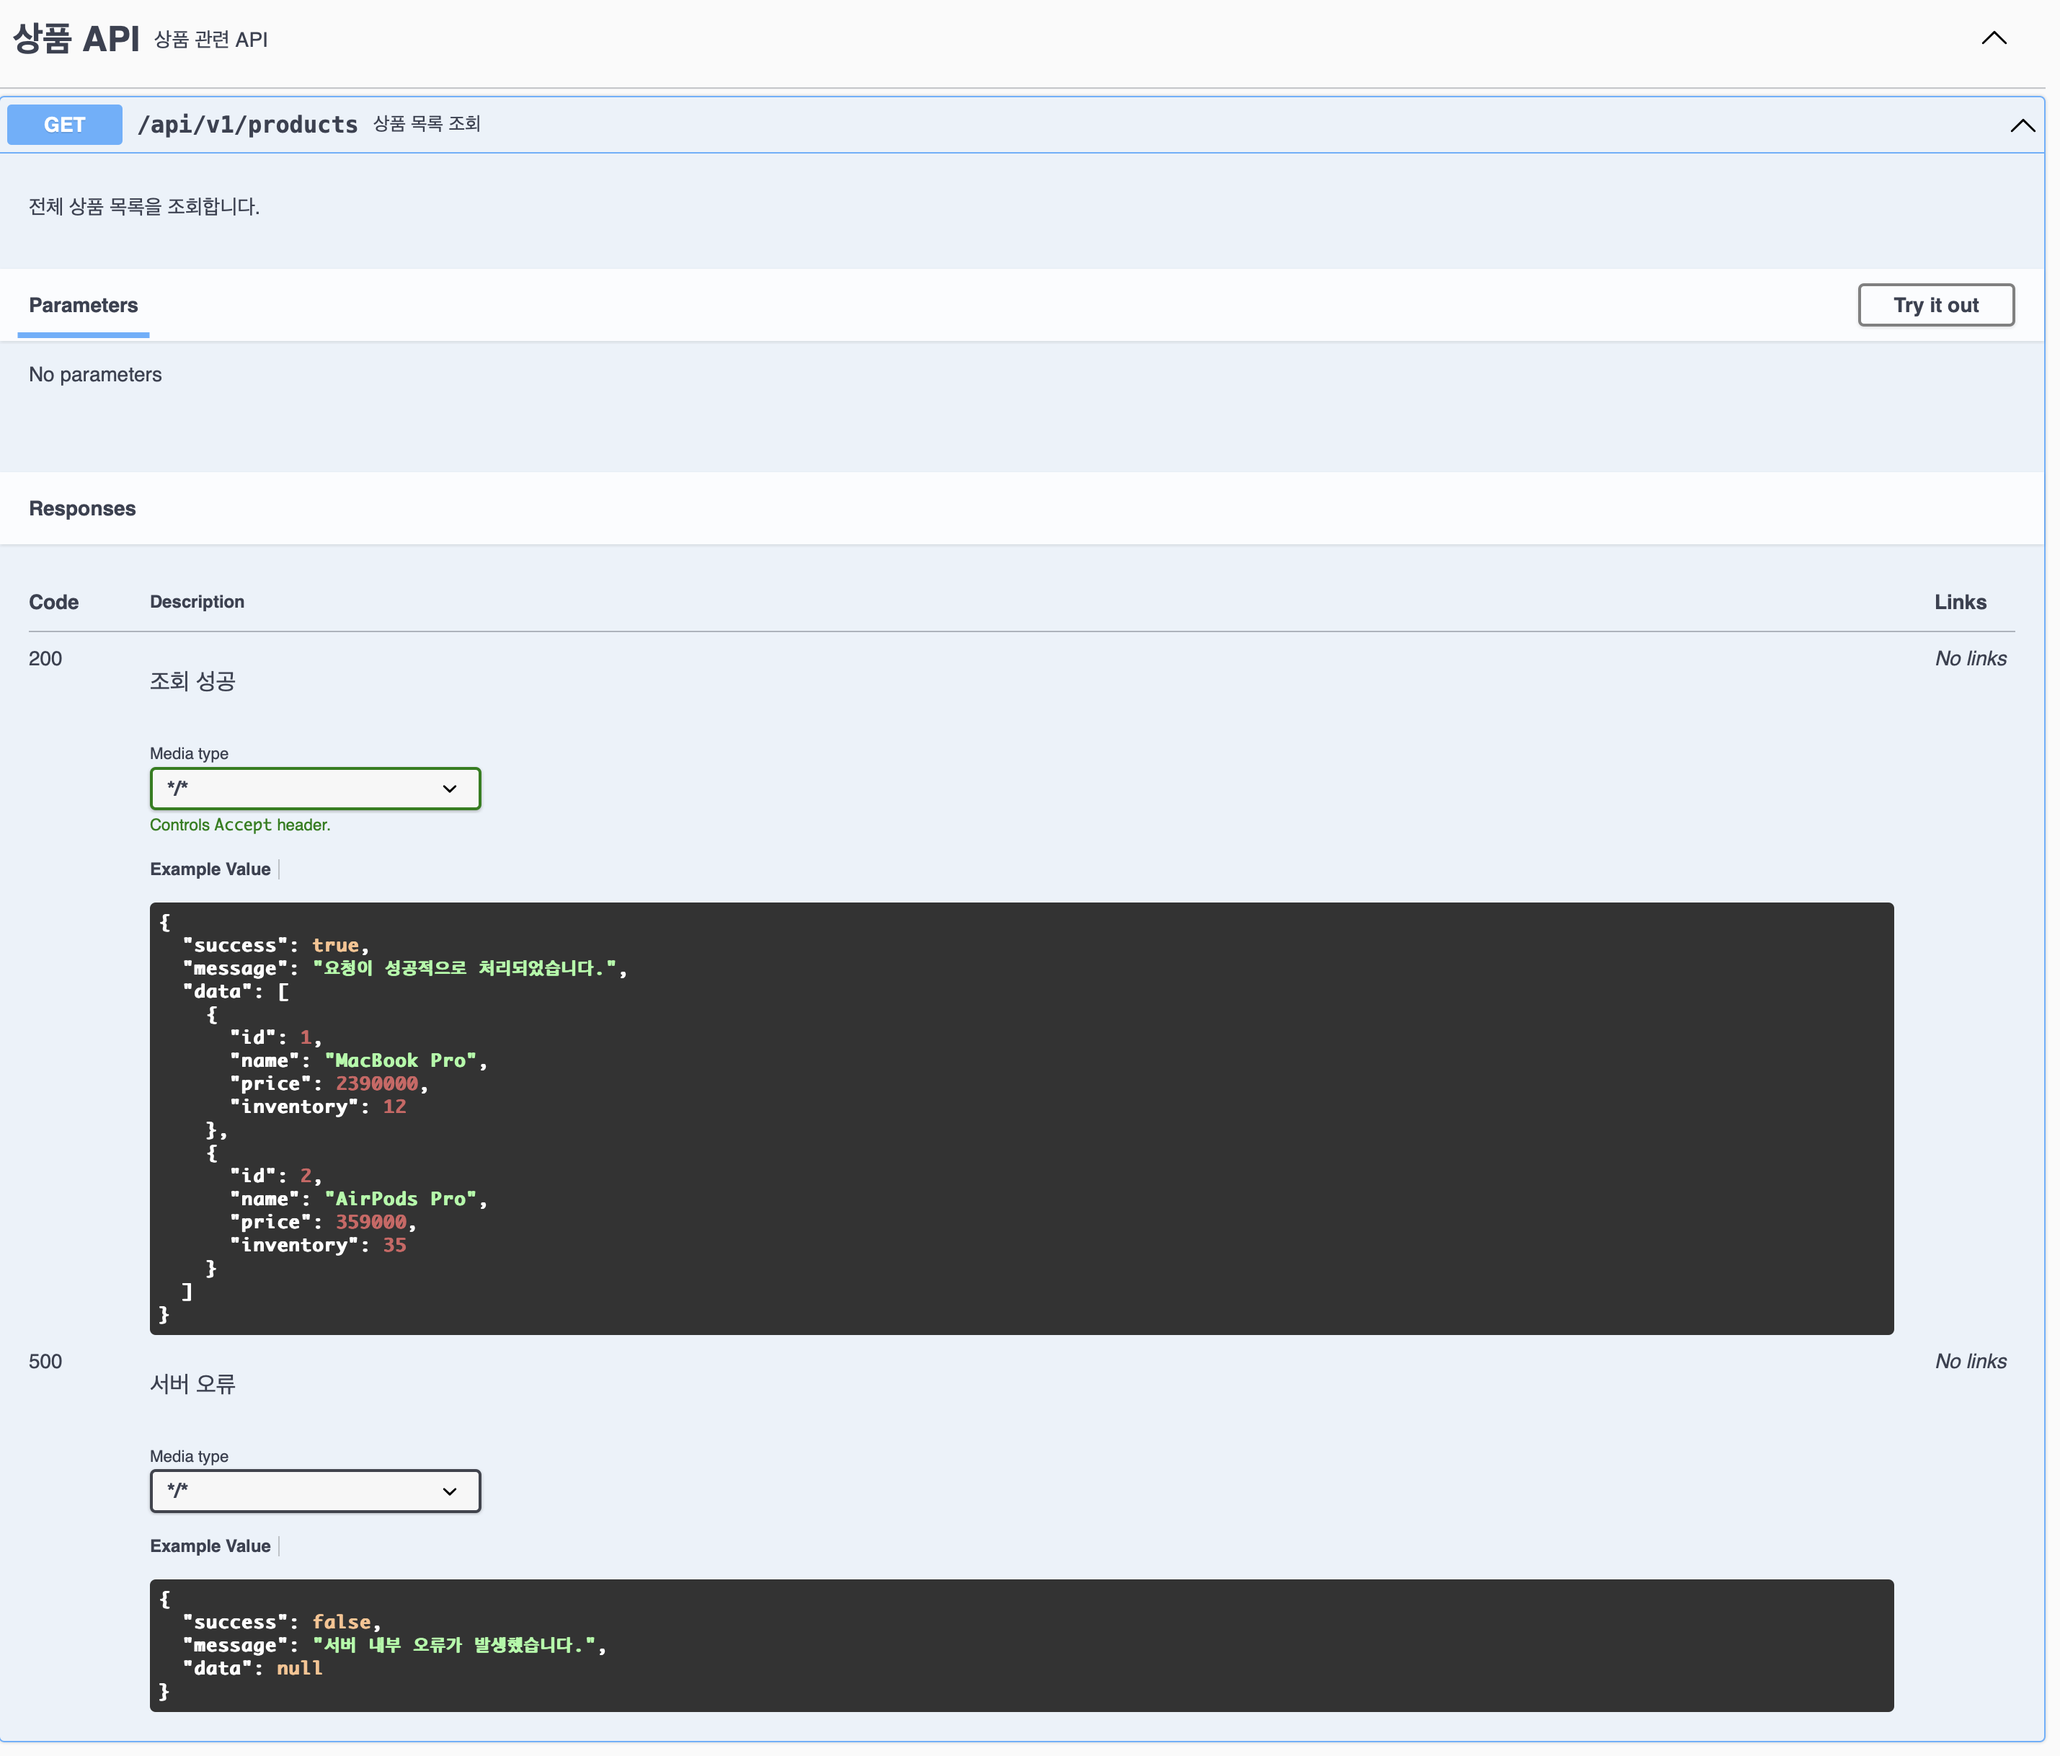
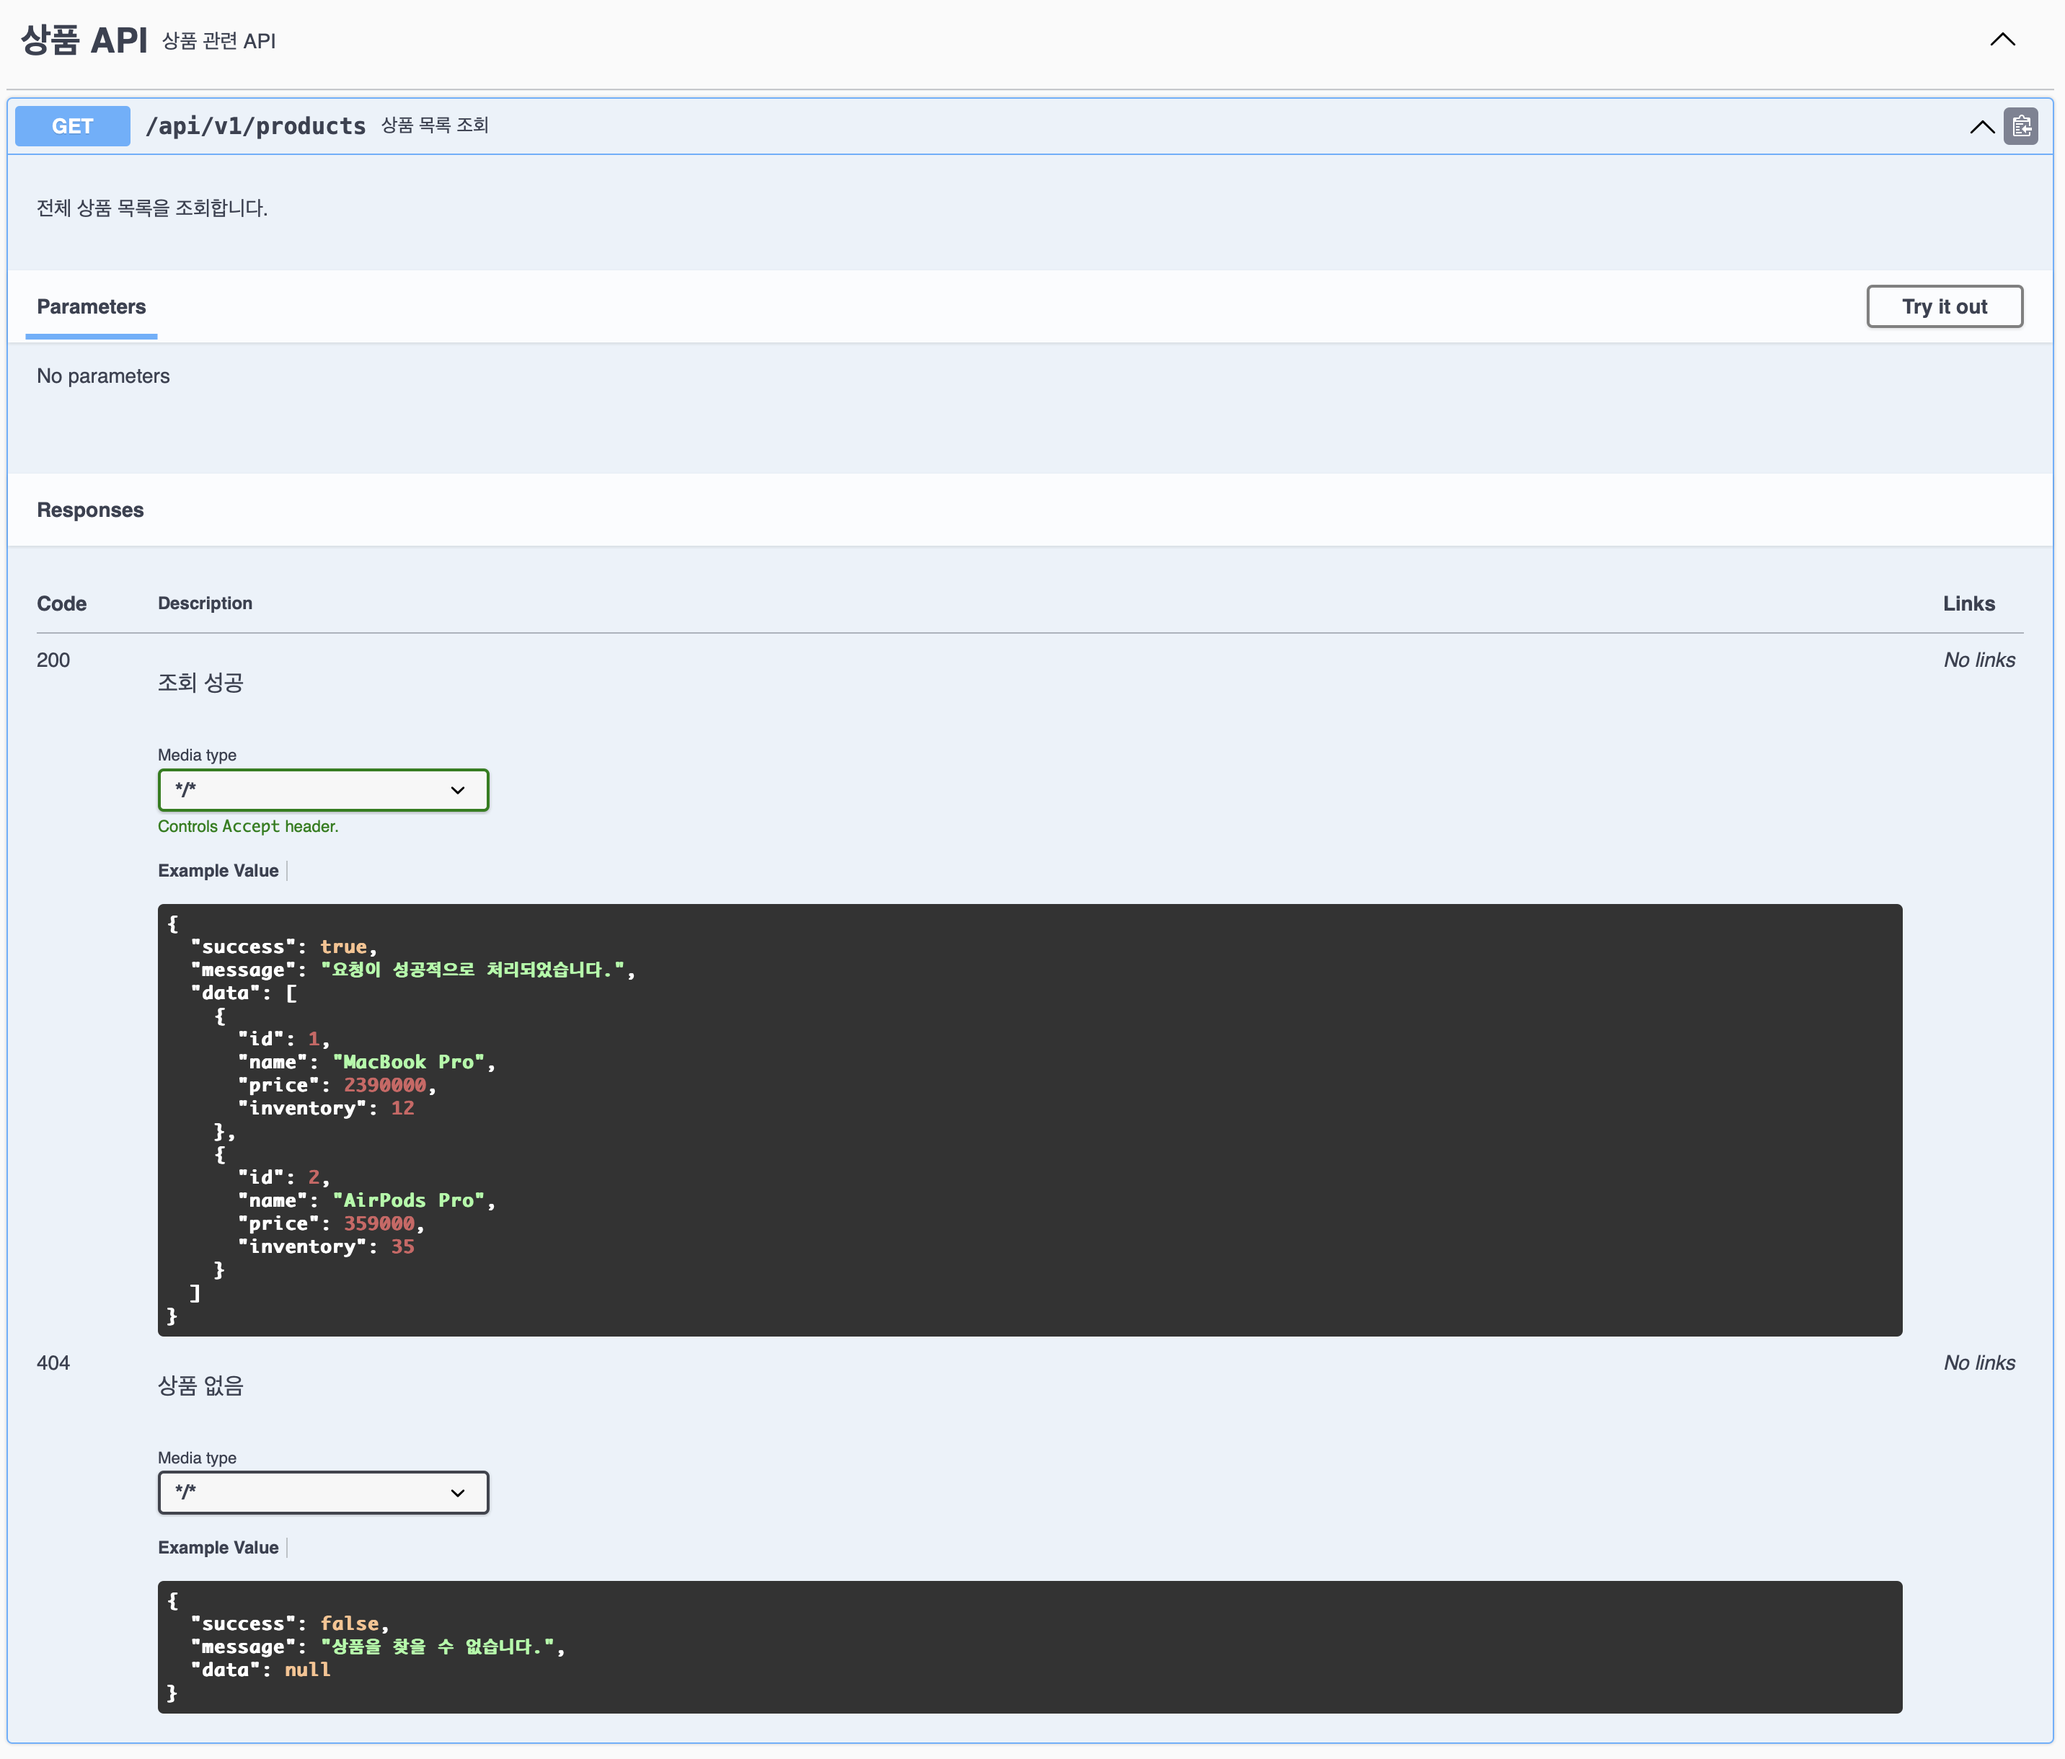
docs: Swagger 상품 목록 조회 오류 응답 예시 수정

diff --git a/src/main/java/com/hhplusecommerce/api/product/controller/ProductController.java b/src/main/java/com/hhplusecommerce/api/product/controller/ProductController.java
@@ -25,7 +25,7 @@ public class ProductController {
     @Operation(summary = "상품 목록 조회", description = "전체 상품 목록을 조회합니다.")
     @ApiResponses(value = {
             @ApiResponse(responseCode = "200", description = "조회 성공", content = @Content(examples = @ExampleObject(value = PRODUCT_LIST_SUCCESS))),
-            @ApiResponse(responseCode = "500", description = "서버 오류", content = @Content(examples = @ExampleObject(value = PRODUCT_SERVER_ERROR)))
+            @ApiResponse(responseCode = "404", description = "상품 없음", content = @Content(examples = @ExampleObject(value = PRODUCT_LIST_NOT_FOUND))),
     })
     public ResponseEntity<ApiResult<List<ProductListResponse>>> getAllProducts() {
         List<ProductListResponse> products = List.of(
@@ -43,8 +43,7 @@ public class ProductController {
             @ApiResponse(responseCode = "404", description = "조회 실패", content = @Content(
                     examples = {
                             @ExampleObject(name = "존재하지 않는 상품", value = PRODUCT_NOT_FOUND),
-                            @ExampleObject(name = "잘못된 ID 형식", value = PRODUCT_INVALID_ID)})),
-            @ApiResponse(responseCode = "500", description = "서버 오류", content = @Content(examples = @ExampleObject(value = PRODUCT_SERVER_ERROR)))
+                            @ExampleObject(name = "잘못된 ID 형식", value = PRODUCT_INVALID_ID)}))
     })
     public ResponseEntity<ApiResult<ProductDetailResponse>> getProductDetail(@PathVariable Long productId) {
         ProductDetailResponse detail = ProductDetailResponse.of(

diff --git a/src/main/java/com/hhplusecommerce/api/product/docs/ProductSwaggerDocs.java b/src/main/java/com/hhplusecommerce/api/product/docs/ProductSwaggerDocs.java
@@ -53,13 +53,13 @@ public final class ProductSwaggerDocs {
         }
         """;
 
-    public static final String PRODUCT_SERVER_ERROR = """
-        {
-          "success": false,
-          "message": "서버 내부 오류가 발생했습니다.",
-          "data": null
-        }
-        """;
+    public static final String PRODUCT_LIST_NOT_FOUND = """
+    {
+      "success": false,
+      "message": "상품을 찾을 수 없습니다.",
+      "data": null
+    }
+    """;
 
     private ProductSwaggerDocs() {}
 }

diff --git a/docs/05.ApiDocument.md b/docs/05.ApiDocument.md
@@ -25,6 +25,7 @@
 ![잔액충전](image/잔액충전.png)
 
 <br>
+
 ---
 
 ## 2. 잔액 조회
@@ -32,6 +33,7 @@
 ![잔액조회](image/잔액조회.png)
 
 <br>
+
 ---
 
 ## 3. 쿠폰 목록 조회
@@ -39,6 +41,7 @@
 ![쿠폰목록조회](image/쿠폰목록조회.png)
 
 <br>
+
 ---
 
 ## 4. 쿠폰 발급
@@ -46,6 +49,7 @@
 ![쿠폰발급](image/쿠폰발급.png)
 
 <br>
+
 ---
 
 ## 5. 상품 목록 조회
@@ -53,6 +57,7 @@
 ![상품목록조회](image/상품목록조회.png)
 
 <br>
+
 ---
 
 ## 6. 상품 목록 조회
@@ -60,6 +65,7 @@
 ![상품상세조회](image/상품상세조회.png)
 
 <br>
+
 ---
 
 ## 7. 주문 요청
@@ -67,11 +73,14 @@
 ![주문요청](image/주문요청.png)
 
 <br>
+
 ---
 
 ## 8. 결제 요청
 
 ![결제요청](image/결제요청.png)
+
+<br>
 
 ---
 
